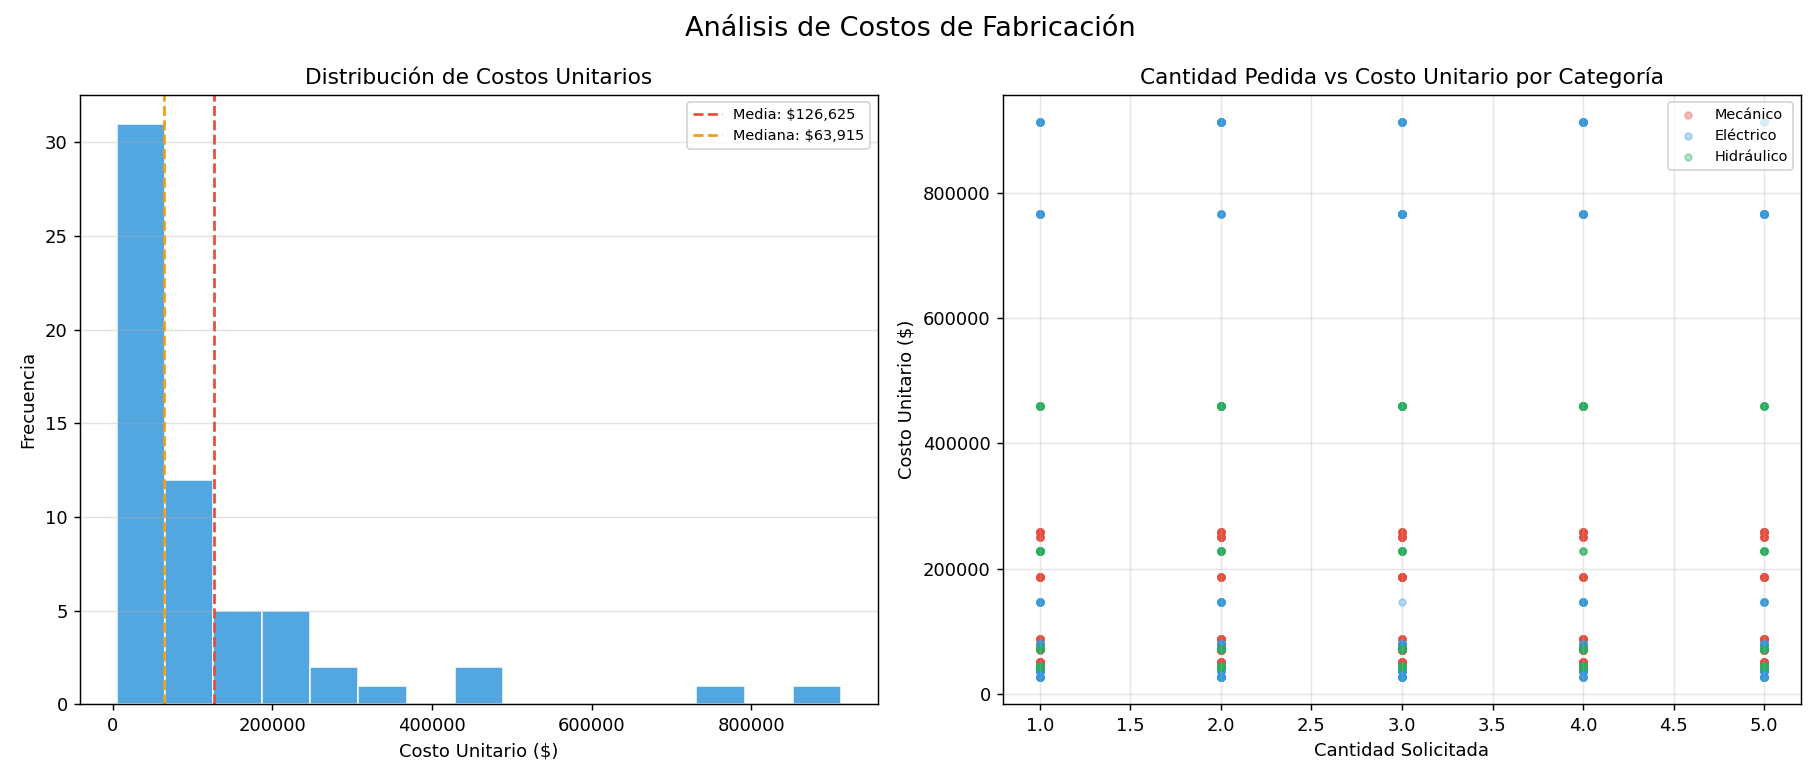
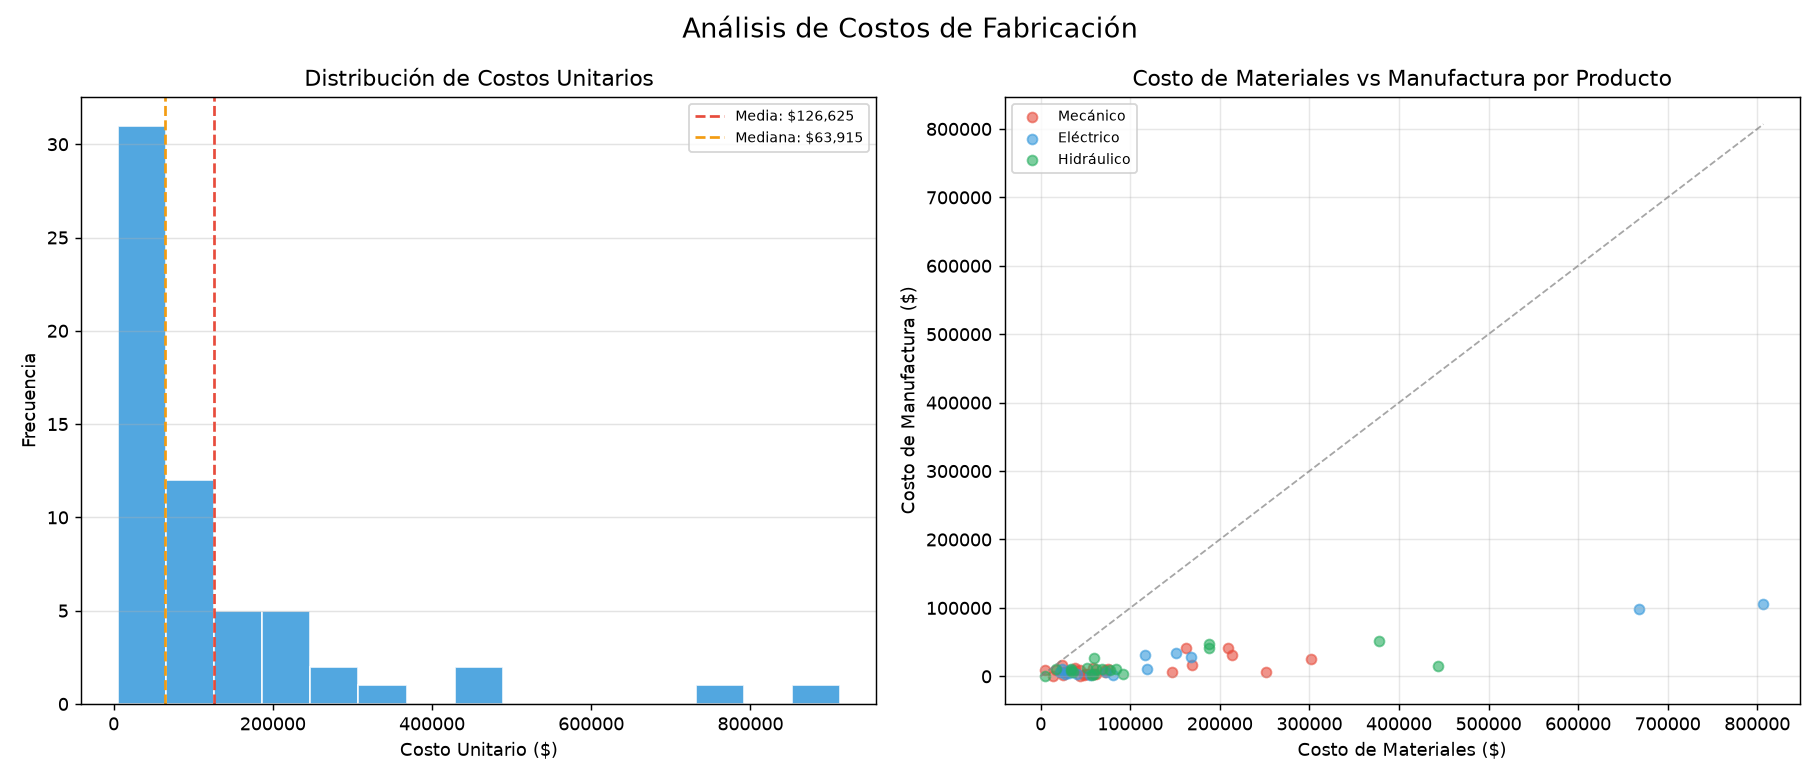
cambiar scatter de costos a materiales vs manufactura

diff --git a/analisis/analisis.py b/analisis/analisis.py
@@ -62,21 +62,28 @@ class Analisis:
             self._fabricados_involucrados(comp, cant * cant_unit, acum)
         return acum
 
-    def _costo_unitario(self, id_elem):
+    def _desglose_costo(self, id_elem):
         if id_elem in self._costos:
             return self._costos[id_elem]
         elem = self._elem_por_id[id_elem]
         if elem["tipo"] == "Insumo":
-            self._costos[id_elem] = float(elem["costo_unitario"])
+            self._costos[id_elem] = (float(elem["costo_unitario"]), 0.0)
             return self._costos[id_elem]
-        costo_mat = sum(self._costo_unitario(c) * q for c, q in self._bom_dict.get(id_elem, []))
-        costo_mfg = 0.0
+        mat = mfg = 0.0
+        for comp, q in self._bom_dict.get(id_elem, []):
+            m, f = self._desglose_costo(comp)
+            mat += m * q
+            mfg += f * q
         for t in self._tareas_por_art.get(id_elem, []):
             unidad = self._unidad_por_id.get(int(t["id_unidad"]))
             if unidad is not None:
-                costo_mfg += float(unidad["costo_hora"]) * float(t["tiempo_estandar"])
-        self._costos[id_elem] = costo_mat + costo_mfg
+                mfg += float(unidad["costo_hora"]) * float(t["tiempo_estandar"])
+        self._costos[id_elem] = (mat, mfg)
         return self._costos[id_elem]
+
+    def _costo_unitario(self, id_elem):
+        mat, mfg = self._desglose_costo(id_elem)
+        return mat + mfg
 
     def analizar_inventario(self):
         print("\n--- ANALISIS 1: EXPLOSION DE MATERIALES vs STOCK ---")
@@ -180,12 +187,13 @@ class Analisis:
             mascara = categorias == cat
             print(f"   [{cat}] n={mascara.sum()} prom=${np.mean(costos[mascara]):,.0f} σ=${np.std(costos[mascara]):,.0f}")
 
-        costo_por_id = {int(e["id_elemento"]): self._costo_unitario(int(e["id_elemento"])) for e in fabricados}
-        cat_por_id = {int(e["id_elemento"]): e["categoria"] for e in fabricados}
-        pedidas = [s for s in self._solicitudes if int(s["producto"]) in costo_por_id]
-        sc_cant = np.array([int(s["cantidad"]) for s in pedidas])
-        sc_costo = np.array([costo_por_id[int(s["producto"])] for s in pedidas])
-        sc_cat = np.array([cat_por_id[int(s["producto"])] for s in pedidas])
+        desglose = [self._desglose_costo(int(e["id_elemento"])) for e in fabricados]
+        sc_mat = np.array([d[0] for d in desglose])
+        sc_mfg = np.array([d[1] for d in desglose])
+        sc_cat = np.array([e["categoria"] for e in fabricados])
+
+        peso_mat = np.sum(sc_mat) / np.sum(sc_mat + sc_mfg) * 100
+        print(f"Peso en el costo total: materiales {peso_mat:.1f}% / manufactura {100 - peso_mat:.1f}%")
 
         fig, (ax1, ax2) = plt.subplots(1, 2, figsize=(14, 6))
         fig.suptitle("Análisis de Costos de Fabricación", fontsize=15)
@@ -199,12 +207,14 @@ class Analisis:
         ax1.legend(fontsize=8)
         ax1.grid(axis="y", alpha=0.35)
 
+        tope = float(max(sc_mat.max(), sc_mfg.max()))
+        ax2.plot([0, tope], [0, tope], color="gray", linestyle="--", linewidth=1, alpha=0.7)
         for cat, color in self.COLORES_CAT.items():
             mascara = sc_cat == cat
-            ax2.scatter(sc_cant[mascara], sc_costo[mascara], alpha=0.35, s=14, color=color, label=cat)
-        ax2.set_title("Cantidad Pedida vs Costo Unitario por Categoría")
-        ax2.set_xlabel("Cantidad Solicitada")
-        ax2.set_ylabel("Costo Unitario ($)")
+            ax2.scatter(sc_mat[mascara], sc_mfg[mascara], alpha=0.6, s=30, color=color, label=cat)
+        ax2.set_title("Costo de Materiales vs Manufactura por Producto")
+        ax2.set_xlabel("Costo de Materiales ($)")
+        ax2.set_ylabel("Costo de Manufactura ($)")
         ax2.legend(fontsize=8)
         ax2.grid(alpha=0.3)
         plt.tight_layout()
